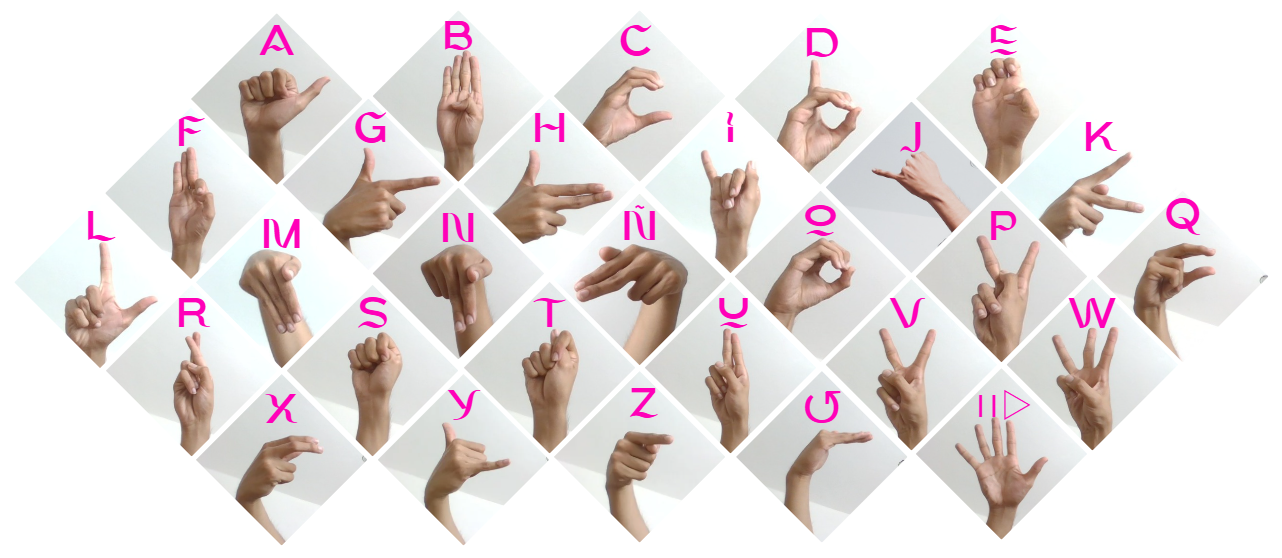
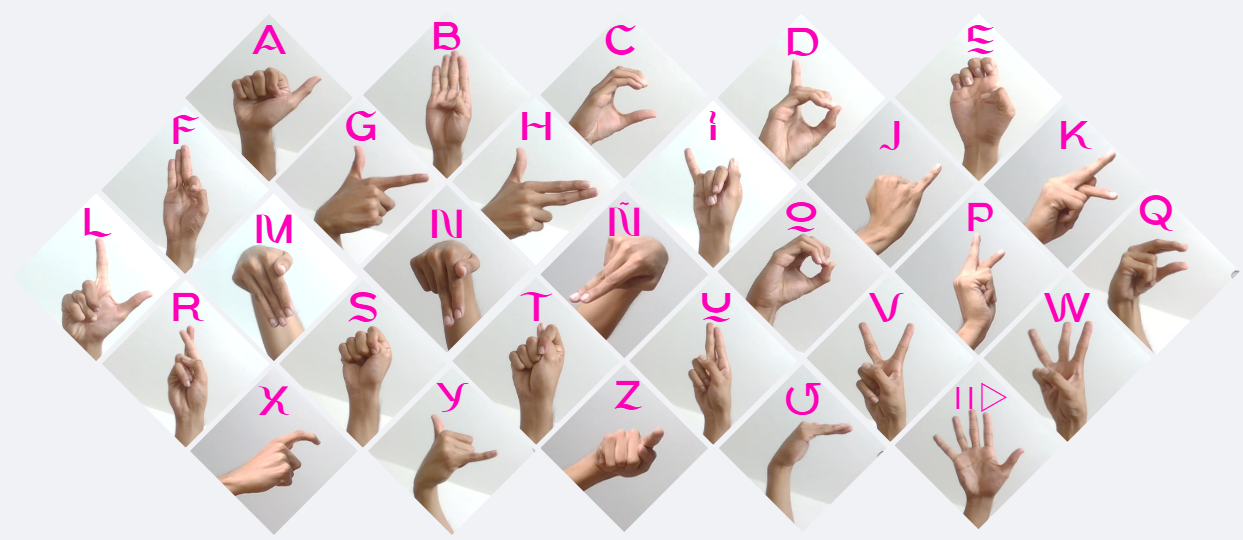
Imagen cambiada

diff --git a/html.html b/html.html
@@ -17,7 +17,7 @@
         </p>
         <button id="continuar" class="buttons">CONTINUAR</button>
     </div>
-    <div  id="daWholeThing">
+    <div id="daWholeThing">
         <h3 id="timer"></h3>
         <img src="fotos/frame.png"; class="frame">
         <div id="camera-container">

diff --git a/app.py b/app.py
@@ -18,7 +18,7 @@ base_options = mp.tasks.BaseOptions(model_asset_path='modelo/hand_landmarker.tas
 options = vision.HandLandmarkerOptions(
     base_options=base_options,
     running_mode=vision.RunningMode.IMAGE, 
-    num_hands=1,
+    num_hands=1
 )
 
 detector = vision.HandLandmarker.create_from_options(options)
